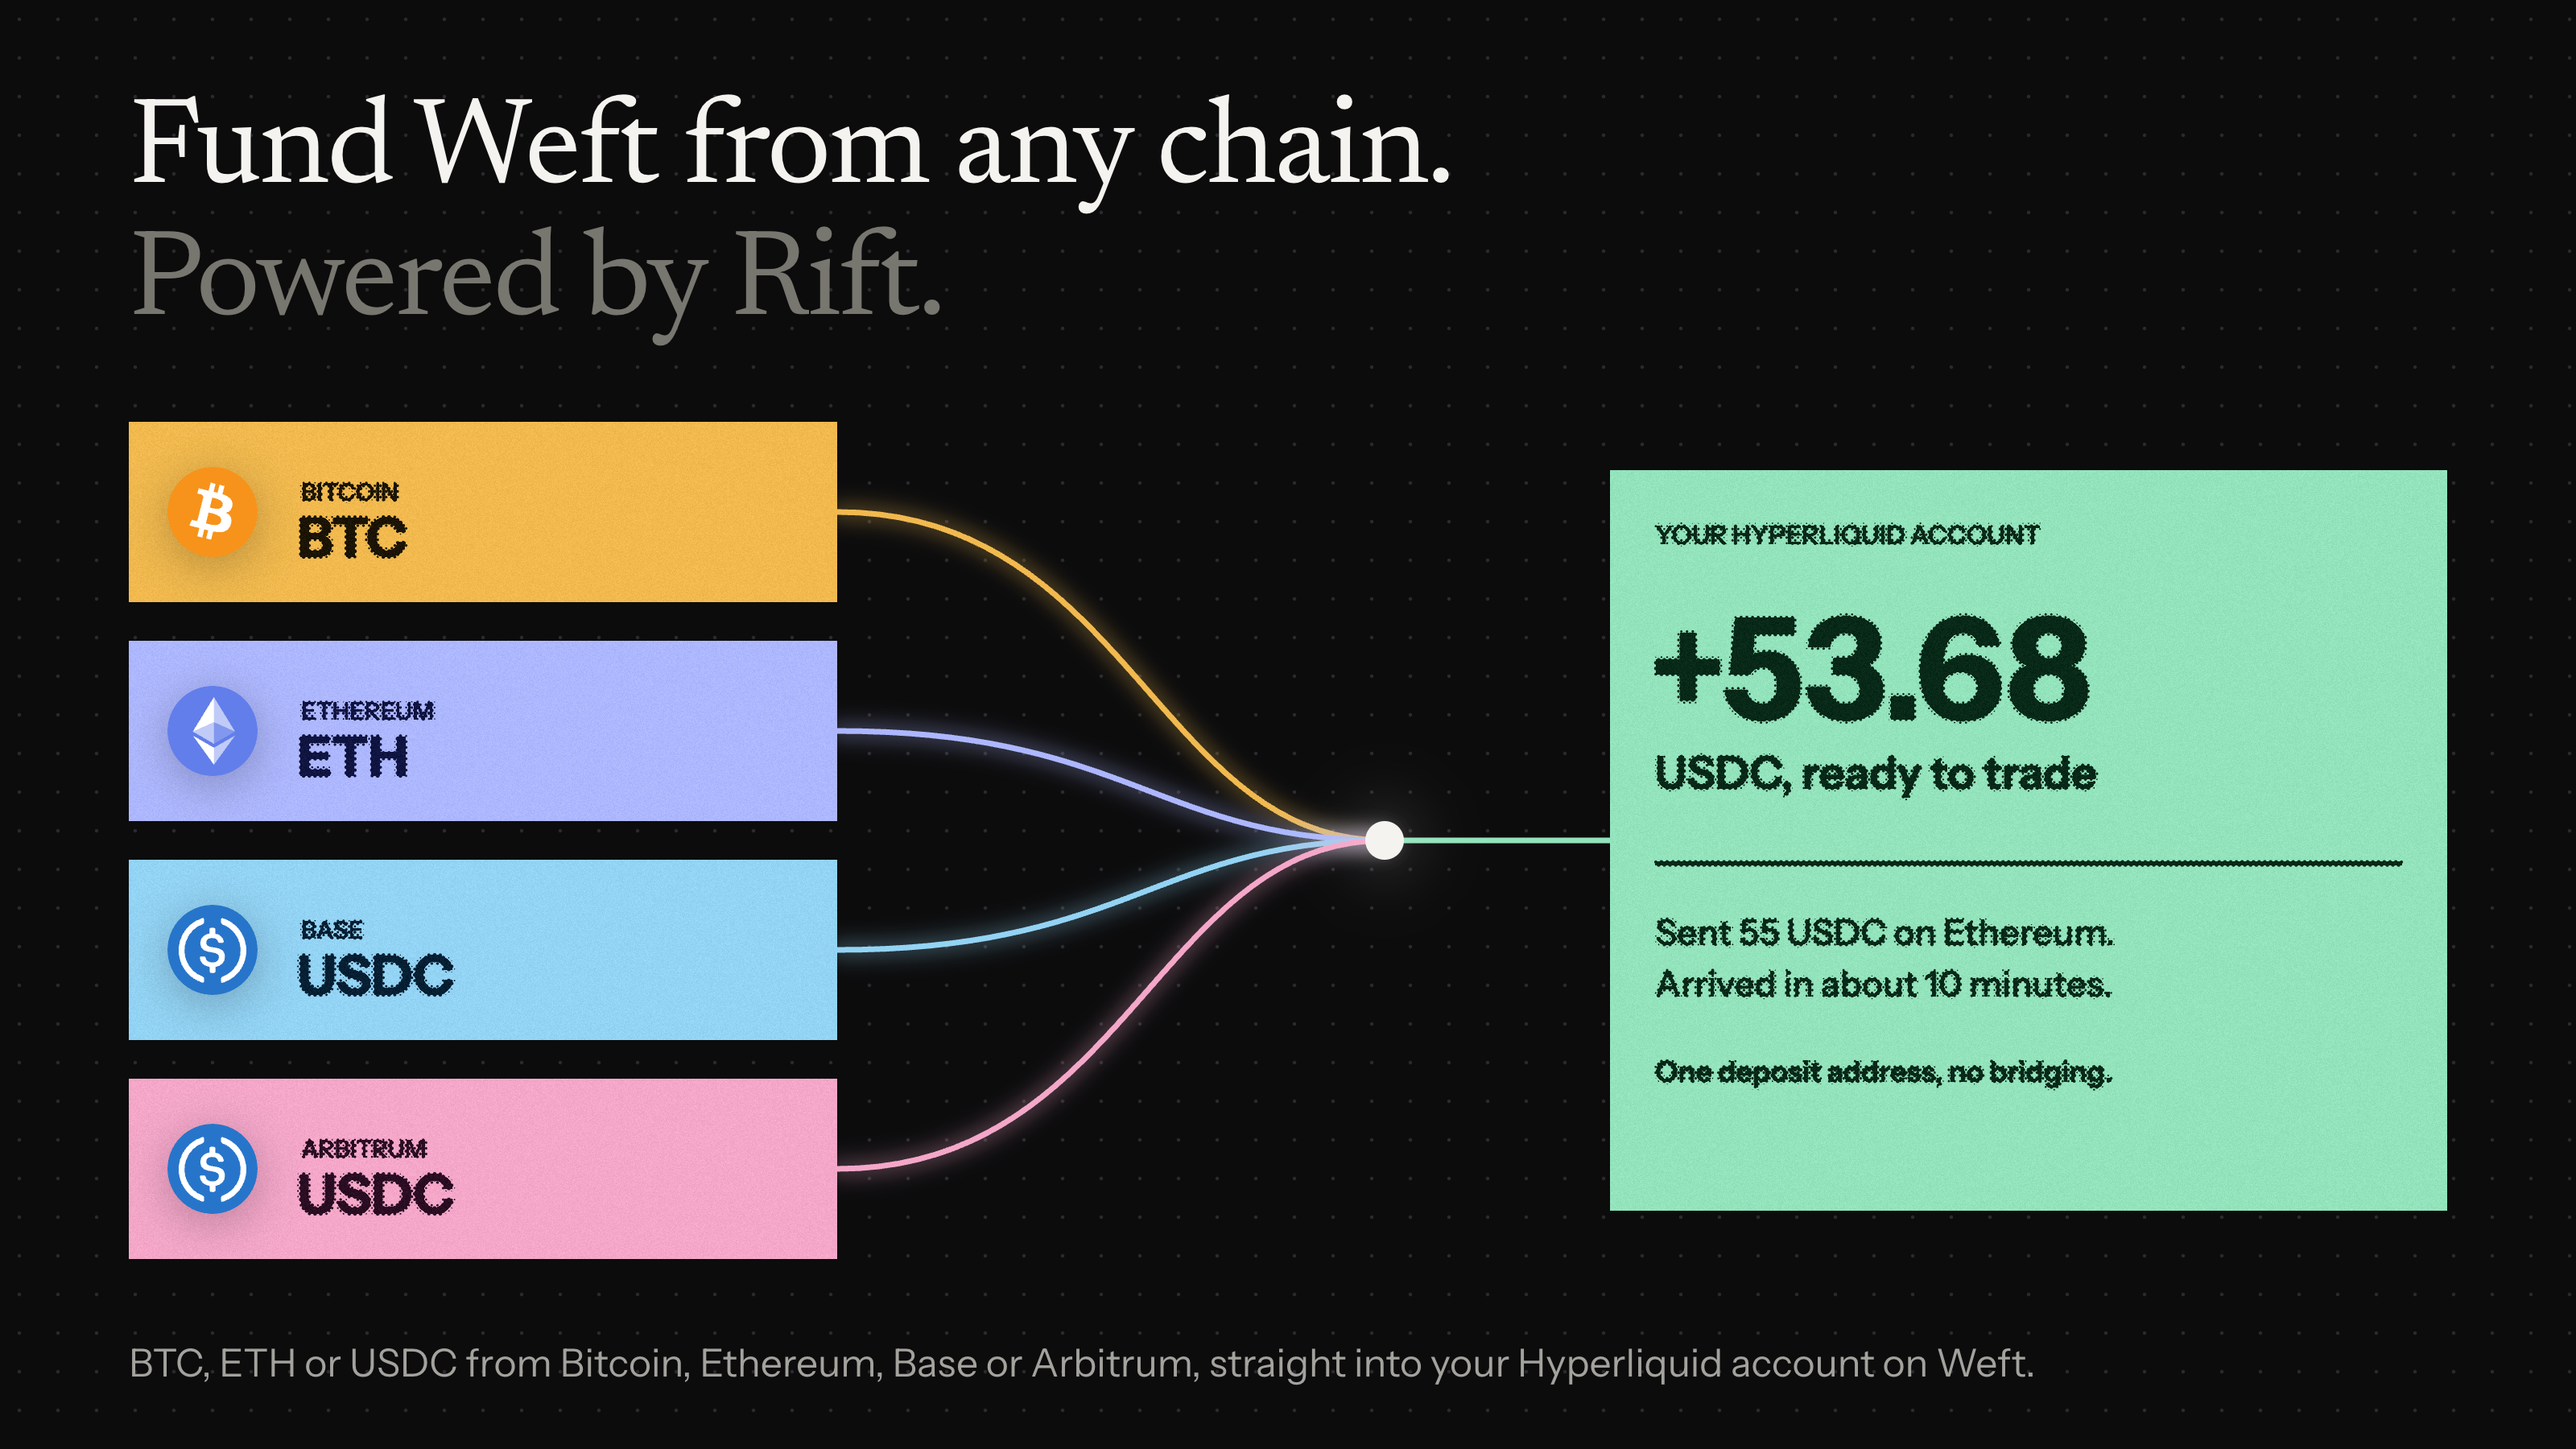
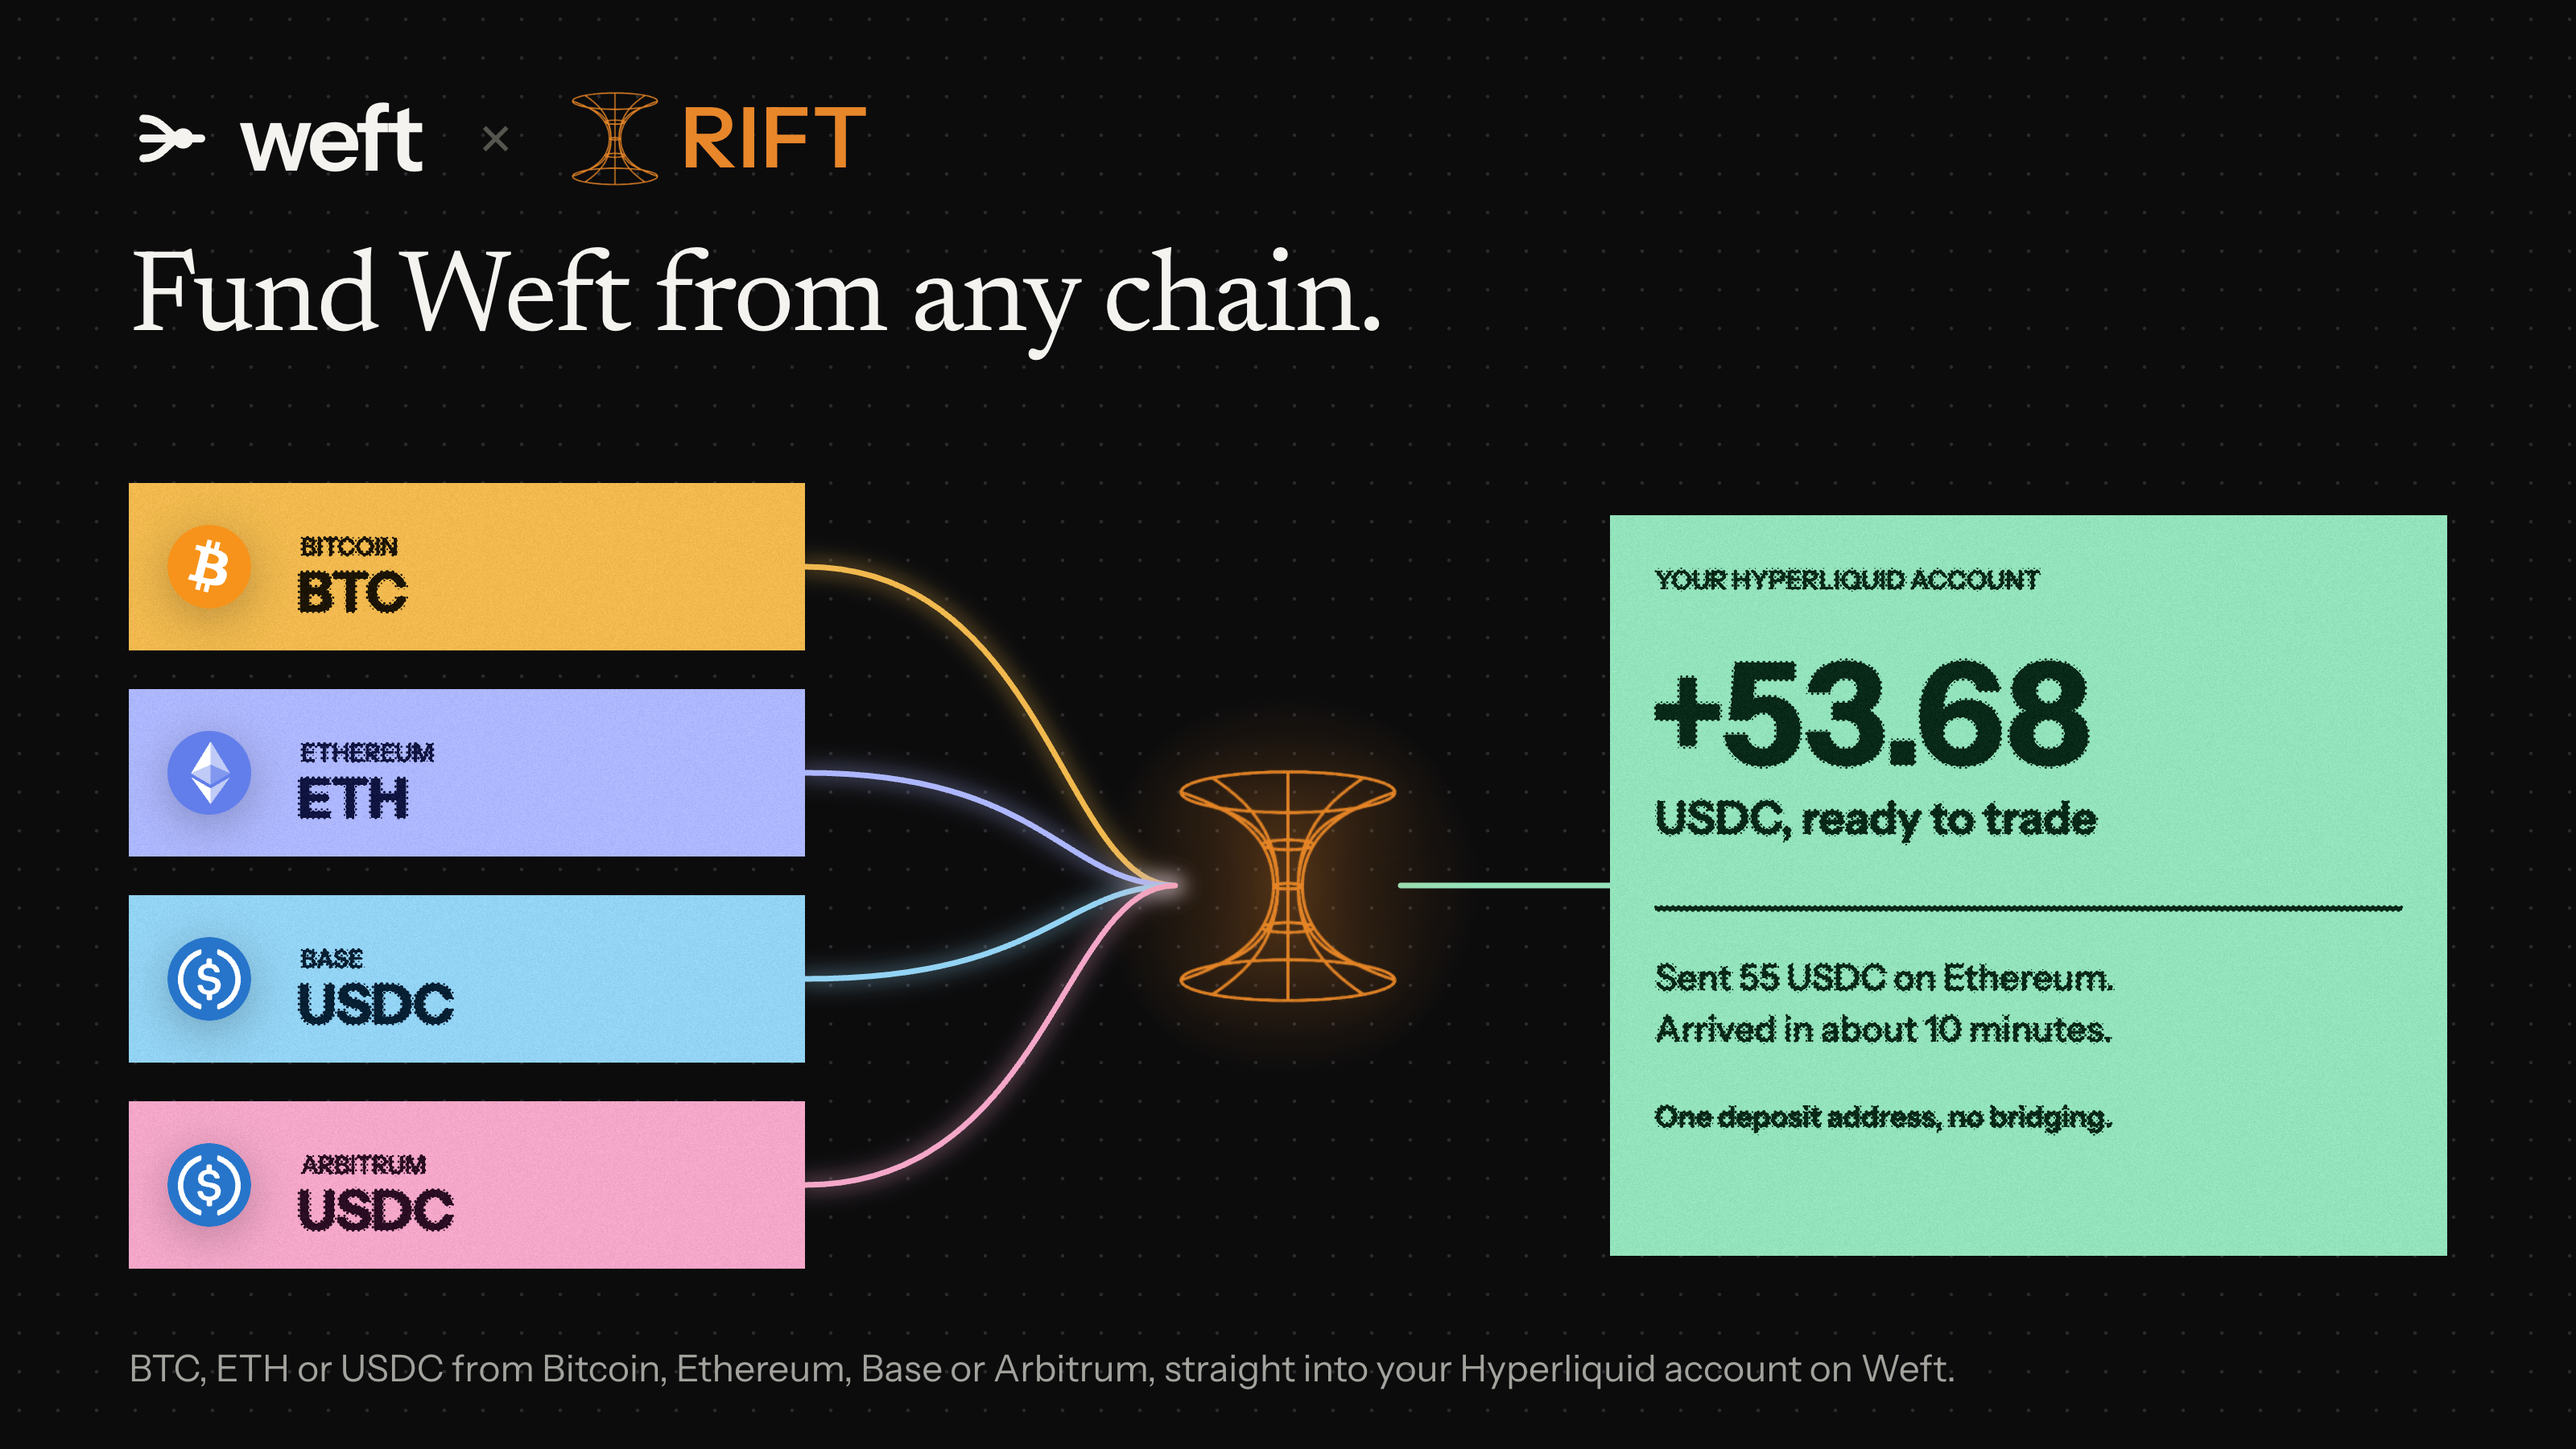
Rift graphic: Weft x Rift lockup, the threads run through Rift's mark

diff --git a/content/x-banner/v2/banners.html b/content/x-banner/v2/banners.html
@@ -1029,21 +1029,27 @@ const BANNERS = {
   rift() {
     $b.style.width = "1600px"; $b.style.height = "900px"; $b.className = "dark"; dots("#2a2a2e", 24);
     const o = { contrast: 1.0, cell: 5, solid: 0.42 };
-    div(`Fund Weft from any chain.<br><span style="color:#77766f">Powered by Rift.</span>`, "position:absolute;left:80px;top:54px;font-size:76px;line-height:1.08;color:#f4f3ef;letter-spacing:-0.02em").classList.add("serif");
+    // the partnership, as a lockup: Weft × Rift
+    const weftMark = `<svg width="54" height="54" viewBox="0 0 48 48"><g fill="none" stroke="#f4f3ef" stroke-width="4.4" stroke-linecap="round"><path d="M8 13C20 13 21 24 30 24"/><path d="M8 24H30"/><path d="M8 35C20 35 21 24 30 24"/><path d="M30 24H40"/></g><circle cx="30" cy="24" r="5.6" fill="#f4f3ef"/></svg>`;
+    div(`${weftMark}<span style="font-size:58px;font-weight:600;letter-spacing:-0.045em;line-height:1">weft</span><span style="font-size:40px;color:#55554f;margin:0 22px;font-weight:400">×</span><img src="assets/rift-mark.png" style="height:60px;display:block"><span style="font-size:52px;font-weight:600;letter-spacing:0.02em;line-height:1;color:#e8862a">RIFT</span>`,
+      "position:absolute;left:80px;top:56px;display:flex;align-items:center;gap:14px;color:#f4f3ef");
+    div(`Fund Weft from any chain.`, "position:absolute;left:80px;top:150px;font-size:72px;line-height:1.08;color:#f4f3ef;letter-spacing:-0.02em").classList.add("serif");
     const SRC = [["BTC", "BTC", "Bitcoin", "amber"], ["ETH", "ETH", "Ethereum", "blue"], ["USDC", "USDC", "Base", "sky"], ["USDC", "USDC", "Arbitrum", "pink"]];
-    const K = { x: 860, y: 522 };
+    const K = { x: 800, y: 550 };
     const paths = [];
     SRC.forEach(([logo, sym, chain, ink], i) => {
-      const y = 262 + i * 136;
-      tile(80, y, 440, 112, drawChainAsset(sym, chain), ink, o);
-      div(`<img src="../../../apps/web/public/coins/${logo}.svg" width="56" height="56" style="border-radius:50%;display:block">`, `position:absolute;left:104px;top:${y + 28}px;filter:drop-shadow(0 6px 14px rgba(0,0,0,0.25))`);
-      paths.push([`M 520 ${y + 56} C 700 ${y + 56} 720 ${K.y} ${K.x} ${K.y}`, ["#f1b94e", "#adb7ff", "#93d3f4", "#f4a7c9"][i]]);
+      const y = 300 + i * 128;
+      tile(80, y, 420, 104, drawChainAsset(sym, chain), ink, o);
+      div(`<img src="../../../apps/web/public/coins/${logo}.svg" width="52" height="52" style="border-radius:50%;display:block">`, `position:absolute;left:104px;top:${y + 26}px;filter:drop-shadow(0 6px 14px rgba(0,0,0,0.25))`);
+      paths.push([`M 500 ${y + 52} C 650 ${y + 52} 660 ${K.y} ${K.x - 70} ${K.y}`, ["#f1b94e", "#adb7ff", "#93d3f4", "#f4a7c9"][i]]);
     });
-    paths.push([`M ${K.x} ${K.y} L 1000 ${K.y}`, "#93e3bc"]);
+    paths.push([`M ${K.x + 70} ${K.y} L 1000 ${K.y}`, "#93e3bc"]);
     threads(paths);
-    div("", `position:absolute;left:${K.x - 12}px;top:${K.y - 12}px;width:24px;height:24px;border-radius:50%;background:#f4f3ef;box-shadow:0 0 40px rgba(244,243,239,0.55)`);
-    tile(1000, 292, 520, 460, drawArrived, "green", o);
-    div("BTC, ETH or USDC from Bitcoin, Ethereum, Base or Arbitrum, straight into your Hyperliquid account on Weft.", "position:absolute;left:80px;top:832px;font-size:24px;color:#a3a29d");
+    // the threads go into Rift's wormhole and come out as USDC on Hyperliquid
+    div("", `position:absolute;left:${K.x - 120}px;top:${K.y - 120}px;width:240px;height:240px;border-radius:50%;background:radial-gradient(closest-side, rgba(232,134,42,0.22), rgba(232,134,42,0))`);
+    div(`<img src="assets/rift-mark.png" style="height:150px;display:block;filter:drop-shadow(0 0 18px rgba(232,134,42,0.45))">`, `position:absolute;left:${K.x - 68}px;top:${K.y - 75}px`);
+    tile(1000, 320, 520, 460, drawArrived, "green", o);
+    div("BTC, ETH or USDC from Bitcoin, Ethereum, Base or Arbitrum, straight into your Hyperliquid account on Weft.", "position:absolute;left:80px;top:836px;font-size:23px;color:#a3a29d");
   },
   safe() {
     $b.style.width = "1080px"; $b.style.height = "1080px"; $b.className = "dark"; dots("#242428", 24);
